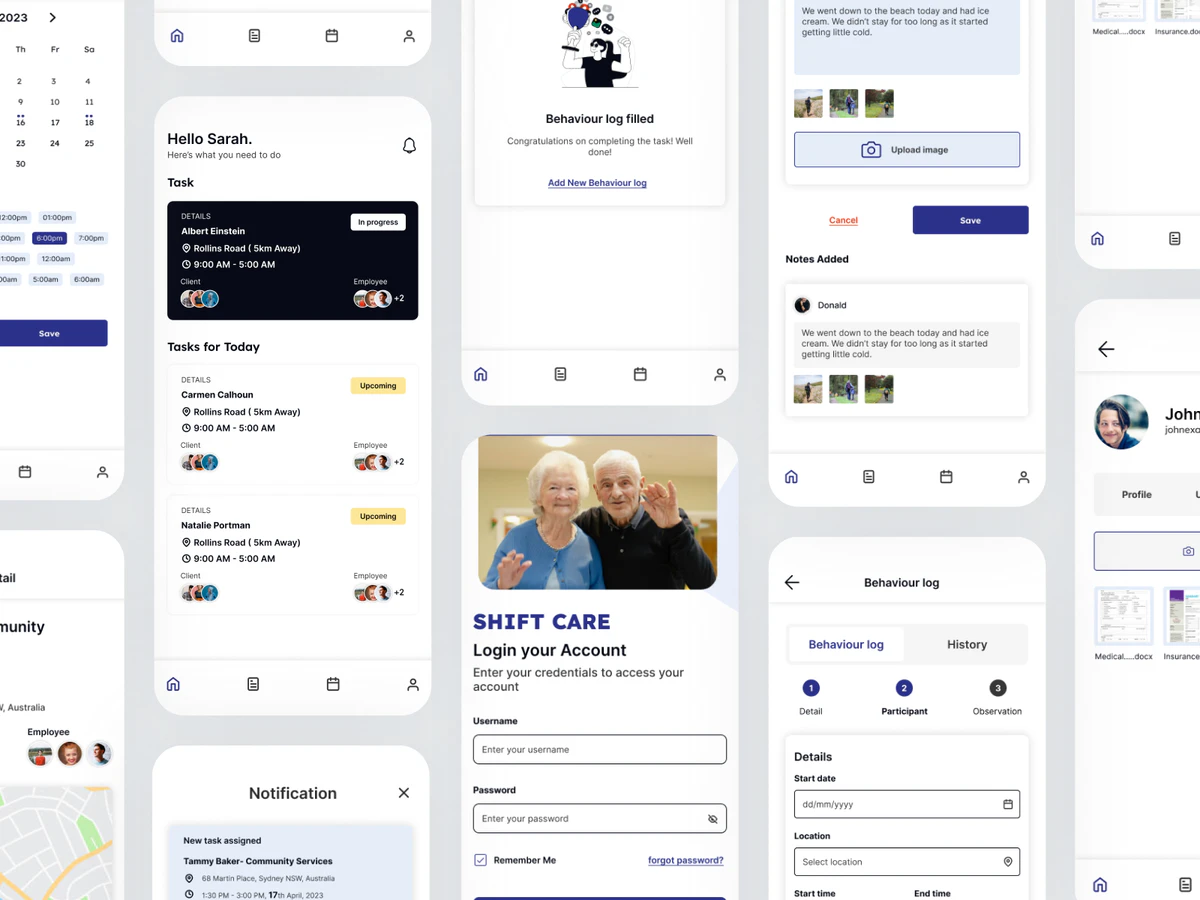
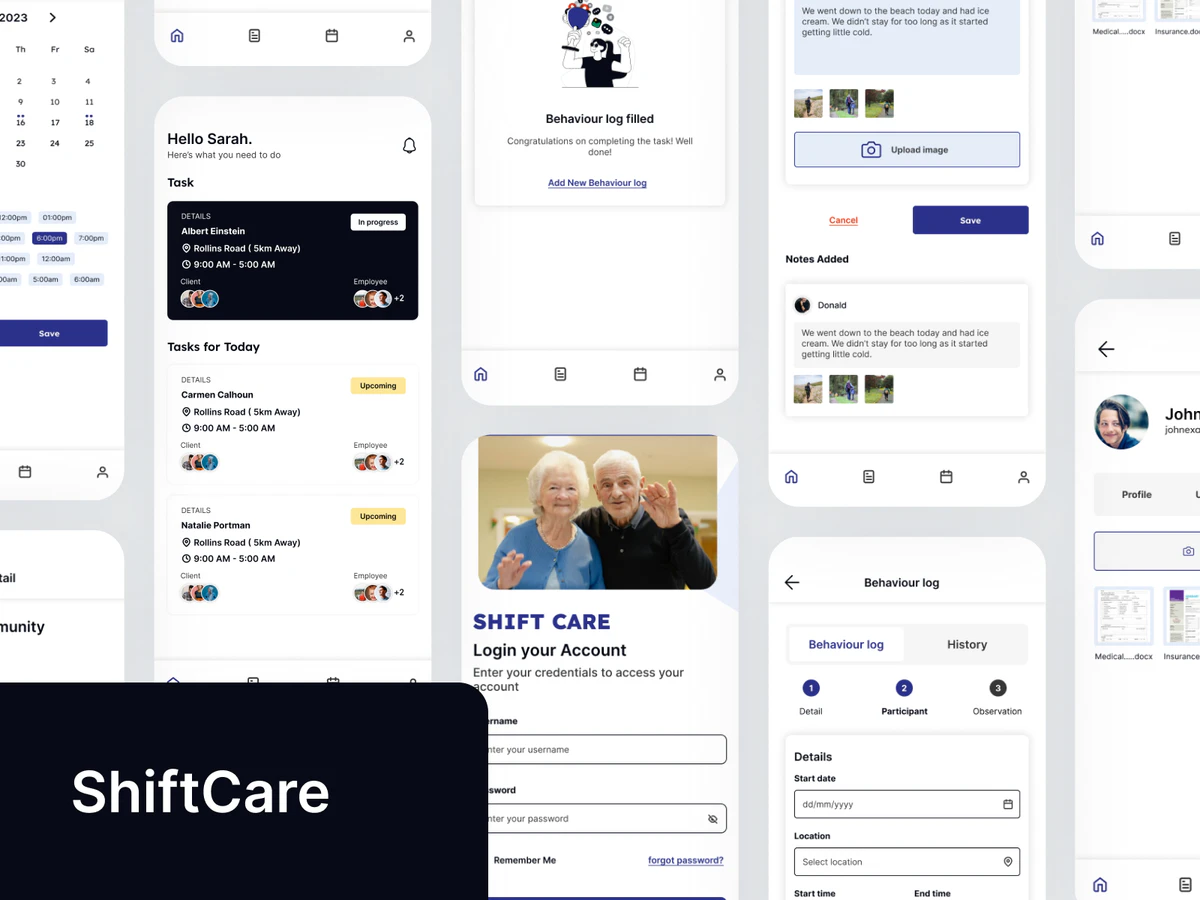
Mobile apps: show ShiftCare, RamroParts, Officiti and Camaieu; fix pager momentum
Replace the Dribbble mobile shots with four labeled app designs, and stop
leftover trackpad momentum from scrolling (or skipping past) the next slide.

Changed region(s): [[0.0, 0.7467, 0.4317, 1.0]]

diff --git a/js/design.js b/js/design.js
@@ -48,20 +48,12 @@
         },
         {
             id: 'mobile-apps', label: 'Mobile apps', title: 'Mobile <em>apps.</em>',
-            text: 'iOS and Android screens for home care, finance, learning, fitness and food: thumb-friendly layouts and flows that finish in a few taps.',
+            text: 'iOS and Android screens for home care, motor parts, workspaces and fashion: thumb-friendly layouts and flows that finish in a few taps.',
             items: [
                 { t: 'ShiftCare caregiver app', img: L + 'mobile/shift-care.webp', th: L + 'mobile/shift-care-thumb.webp', orig: L + 'mobile/shift-care.png' },
-                { t: 'Stock trading app', img: U + '32547485/file/original-34544cb2a6232baecf01f0549e7e2005.png', s: '16062130-Stock-trading-app' },
-                { t: 'E-learning app', img: U + '30962191/file/original-bc7f2face669e655624c0bbd40fb5621.png', s: '15278664-E-Learning-App' },
-                { t: 'Visitor details pass', img: U + '30757909/file/original-e7ae719f5a83e0ed11657f8012660ae1.png', s: '15178314-Visitors-Detail' },
-                { t: 'hmoney crypto wallet', img: U + '30538925/file/original-449d38540e35a9b1d9e5e106fb210e54.png', s: '15068547-hmoney-crypto-wallet' },
-                { t: 'Crypto wallet app', img: U + '30234537/file/original-a65d9f088757ed9a82067e052a67b48e.png', s: '14917829-Crypto-Wallet-App-Design' },
-                { t: 'Seven minutes workout app', img: U + '27378572/file/original-c7bd3f11fed9ecd8d18fe85a44c5f2ab.png', s: '11604695-Seven-Minutes-Workout-Mobile-App-Design' },
-                { t: 'E-learning app design', img: U + '27149314/file/original-b6b11c1b122f4ea68a4aca24cbd23642.png', s: '11350009-Elearning-app-design' },
-                { t: 'Food delivery onboarding', img: U + '26798490/file/original-878cd2d648ad2efea31df65257c6ef70.png', s: '11046339-Minimal-Onboard-screen-for-food-delivery-app' },
-                { t: 'Restaurant app', img: U + '26638765/file/original-e9f56c95d5919ce946a046ec14aadd31.png', s: '10882464-RESTAURANT-APP', r: 1 },
-                { t: 'Amusement park payment app', img: U + '26268220/file/original-8d9743400c9ec5f7f78b0214ac6660e3.png', s: '10513453-Amusement-park' },
-                { t: 'Minimal note app', img: U + '23371188/file/original-fa7cb8fafb31ed3f6f8e97853fc02742.jpg', s: '4940637-Minimal-Ui-ux-design-of-note-app' }
+                { t: 'RamroParts motor parts app', img: L + 'mobile/ramro-parts.webp', th: L + 'mobile/ramro-parts-thumb.webp', orig: L + 'mobile/ramro-parts.png' },
+                { t: 'Officiti flexible workspace app', img: L + 'mobile/officiti.webp', th: L + 'mobile/officiti-thumb.webp', orig: L + 'mobile/officiti.png' },
+                { t: 'Camaieu fashion shopping app', img: L + 'mobile/camaieu.webp', th: L + 'mobile/camaieu-thumb.webp', orig: L + 'mobile/camaieu.png' }
             ]
         },
         {

diff --git a/js/pager.js b/js/pager.js
@@ -110,7 +110,7 @@
     });
     document.body.appendChild(dots);
 
-    var cur = 0, locked = false, lastWheel = 0, gestureAtEdge = false;
+    var cur = 0, locked = false, lastWheel = 0, gestureAtEdge = false, gestureMoved = false;
     var mq = window.matchMedia('(min-width: 1024px)');
     var reduce = window.matchMedia('(prefers-reduced-motion: reduce)');
     var enabled = function () { return mq.matches && !reduce.matches; };
@@ -149,12 +149,16 @@
         lastWheel = now;
         var dir = Math.sign(e.deltaY);
         if (!dir) return;
+        if (newGesture) gestureMoved = false;
+        // the rest of a gesture that already changed slides (trackpad momentum) must not scroll
+        // the new slide, or it opens part-way down and the next flick skips past it
+        if (locked || gestureMoved) { e.preventDefault(); return; }
         var s = st();
         var atEdge = dir > 0 ? s.atBottom : s.atTop;
         if (newGesture) gestureAtEdge = atEdge;
         if (!atEdge) return;
         e.preventDefault();
-        if (gestureAtEdge && Math.abs(e.deltaY) > 3 && !locked) go(cur + dir, dir < 0);
+        if (gestureAtEdge && Math.abs(e.deltaY) > 3) { gestureMoved = true; go(cur + dir, dir < 0); }
     }
     function onKey(e) {
         if (!enabled() || root.classList.contains("lb-open") || /input|textarea|select/i.test(e.target.tagName) || e.altKey || e.ctrlKey || e.metaKey) return;

diff --git a/Design.html b/Design.html
@@ -105,7 +105,7 @@
     <section class="sx sx-light dz-hero px-6" data-label="Design">
         <div class="max-w-7xl mx-auto grid lg:grid-cols-12 gap-12 items-center">
             <div class="lg:col-span-6">
-                <div class="sx-label" style="margin-bottom:1.8rem">Visual design · <span data-dz-total>55</span> designs · <span data-dz-kinds>7</span> kinds</div>
+                <div class="sx-label" style="margin-bottom:1.8rem">Visual design · <span data-dz-total>47</span> designs · <span data-dz-kinds>7</span> kinds</div>
                 <h1 class="sx-title">Design <em>work.</em></h1>
                 <p class="sx-lead">Websites, landing pages, apps and illustration. Each one starts with who will use it and what they need to do next.</p>
             </div>
